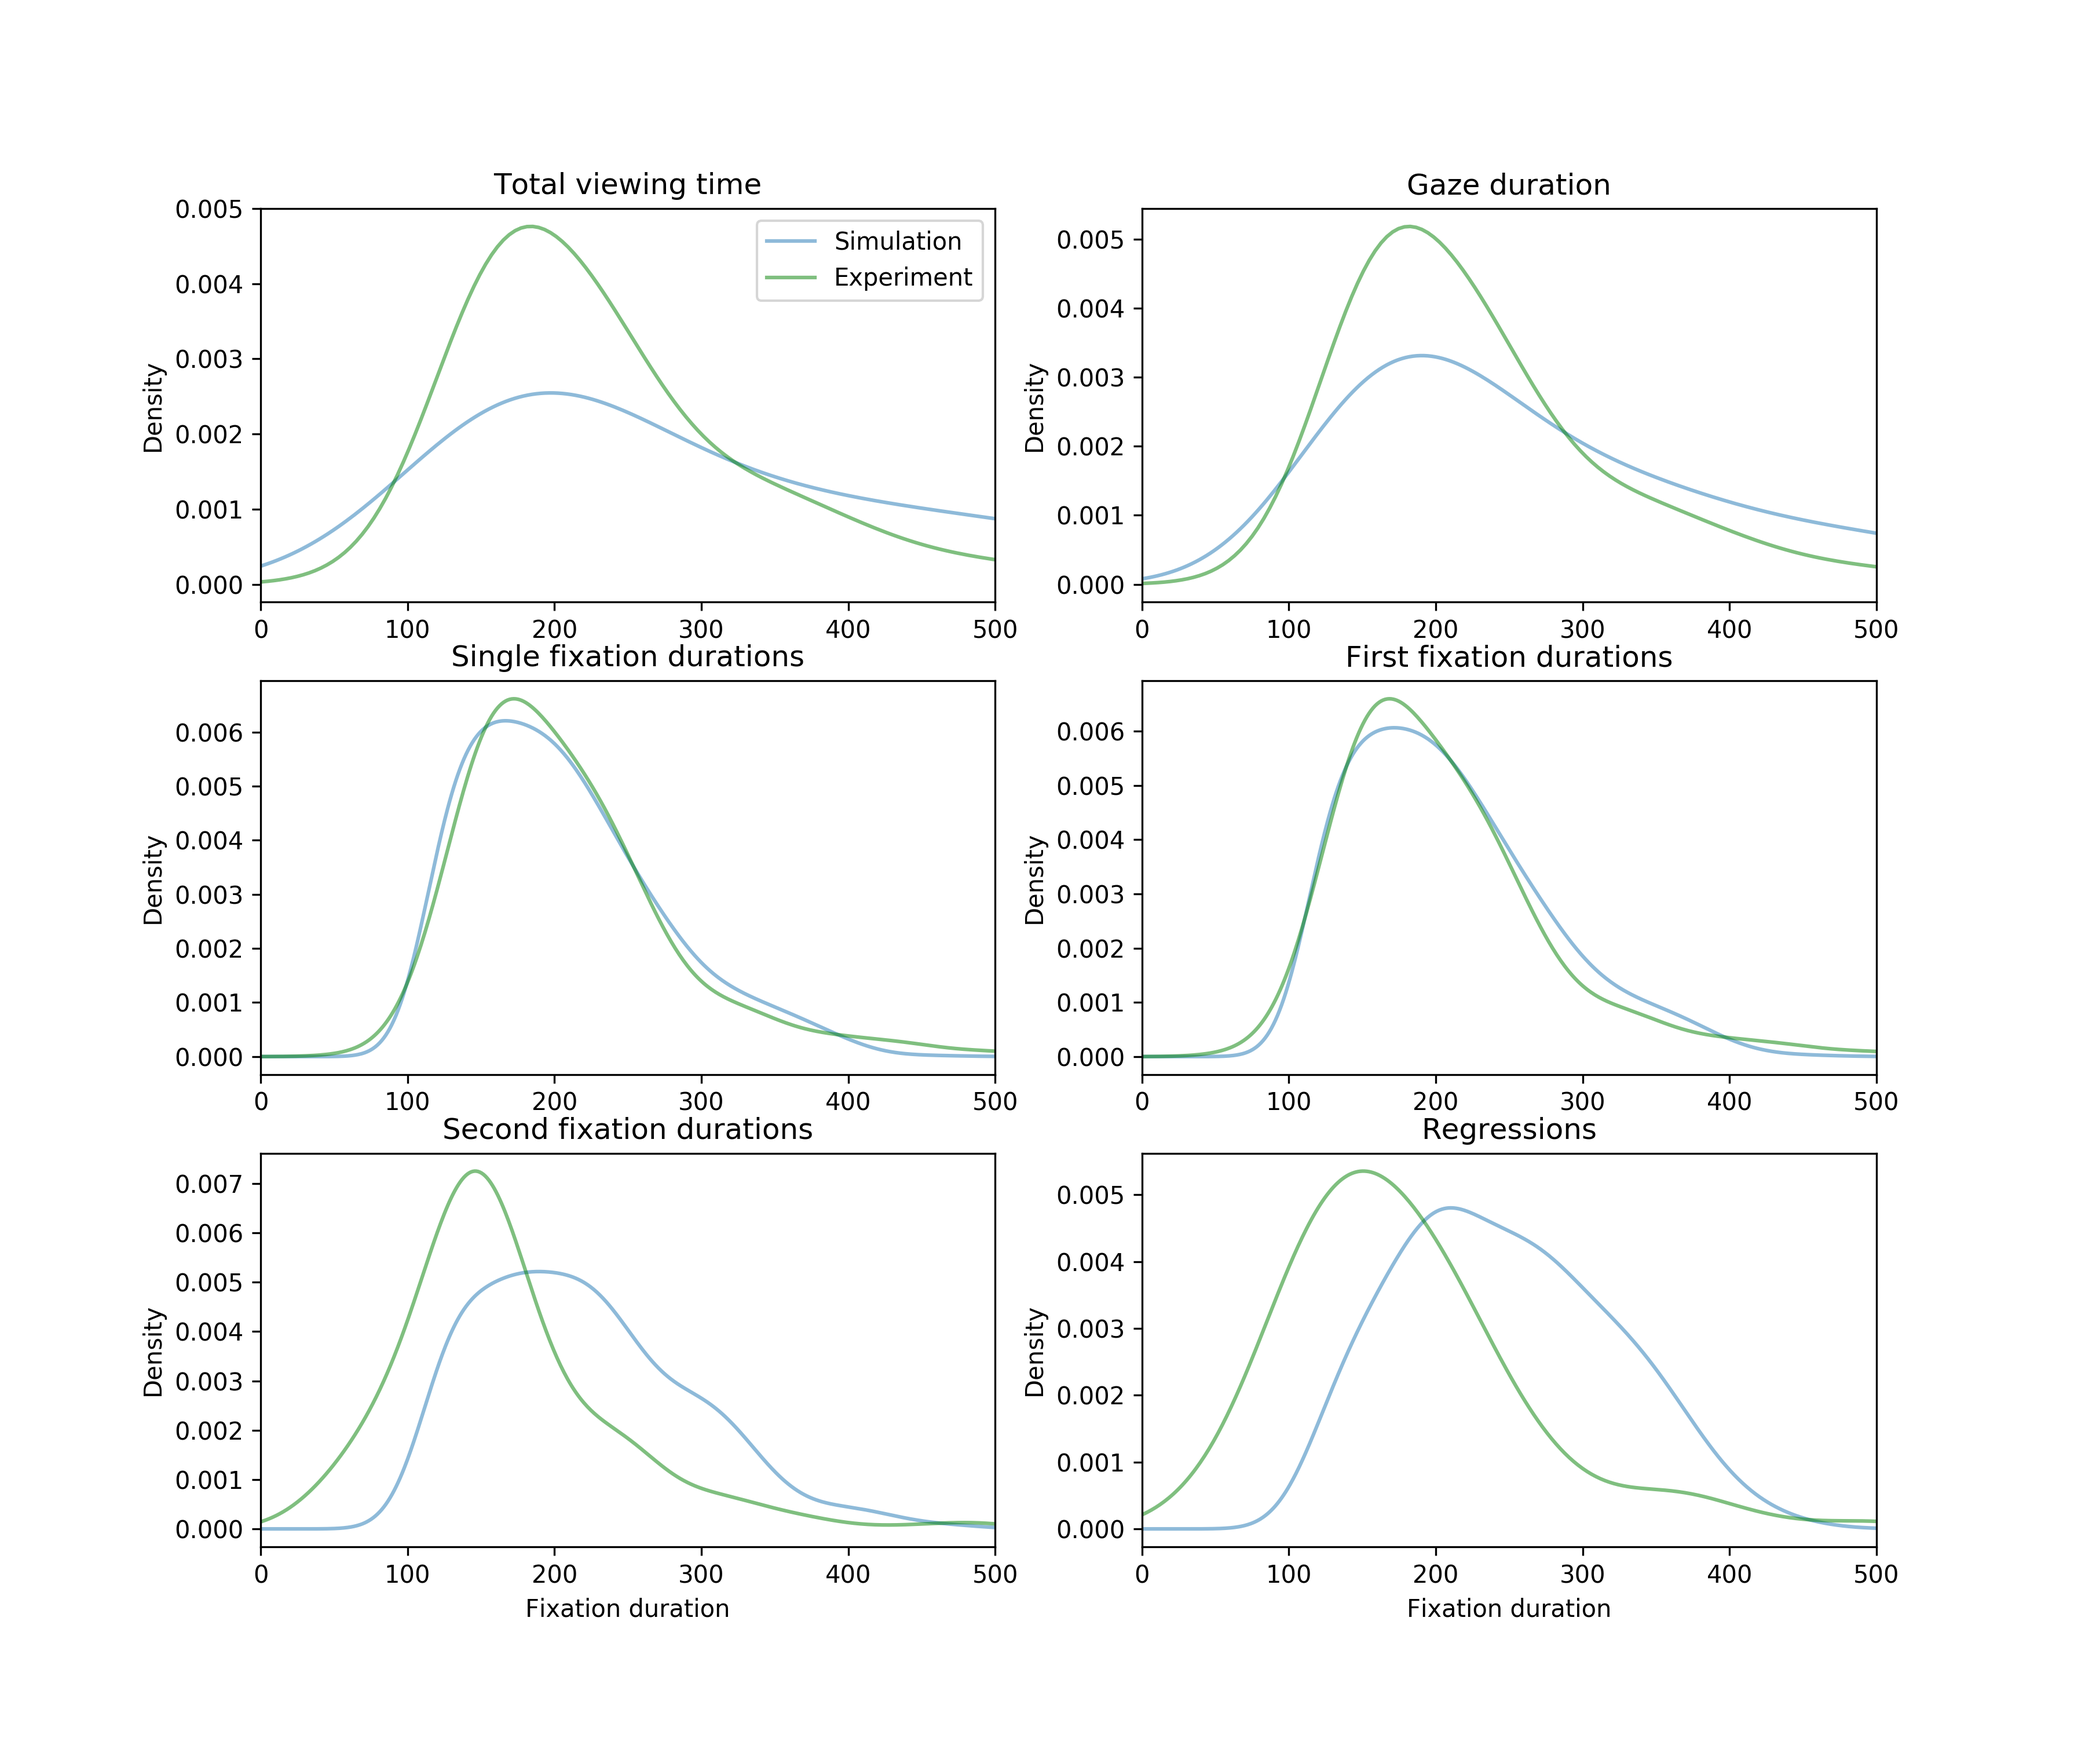
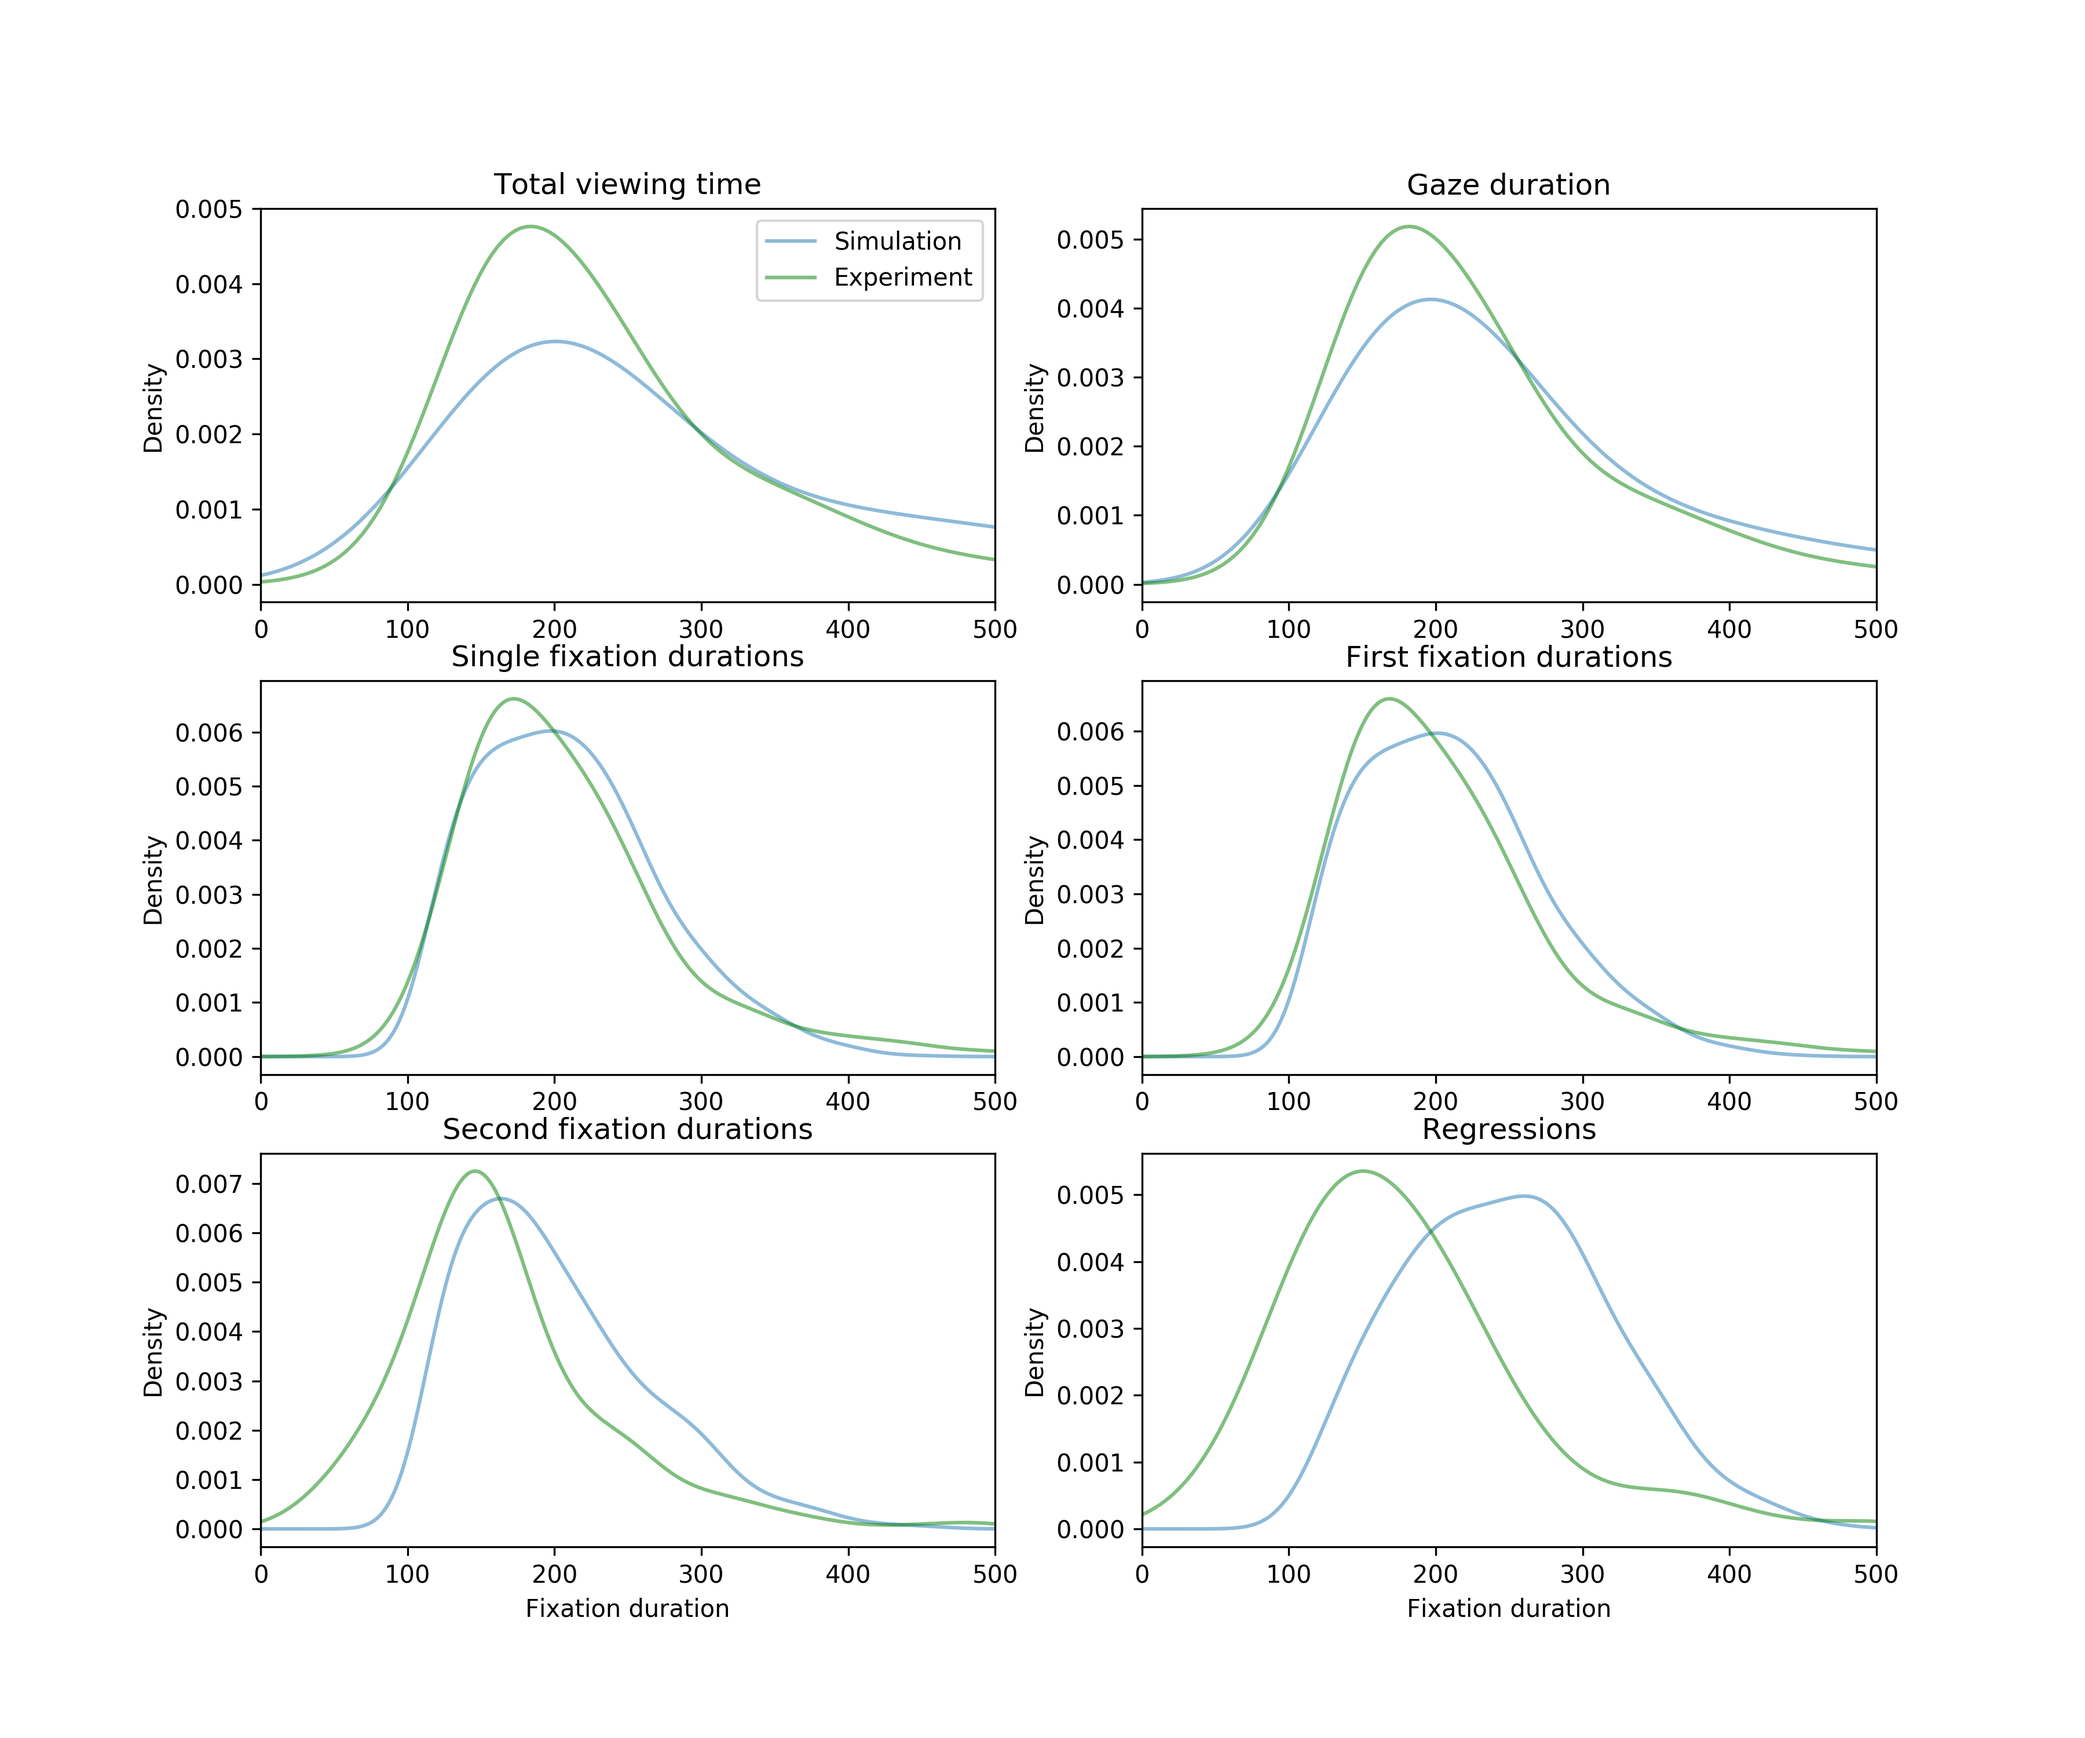
main results

diff --git a/reading_simulation.py b/reading_simulation.py
@@ -63,10 +63,10 @@ def reading_simulation(filename, parameters):
         textsplitbyspace = textfile.split(" ")
     if ".pkl" in filename:
         textsplitbyspace = pickle.load(open(filename))
-#        textsplitbyspace = textsplitbyspace[:1000]
+
     for word in textsplitbyspace:
         if word.strip() != "":
-           # new_word = str(word.strip())  # make sure words are unicode (numpy.unicode_ can cause errors)
+            #new_word = str(word.strip())  # make sure words are unicode (numpy.unicode_ can cause errors)
             new_word = np.unicode_(word.strip()) #For Python2
             individual_words.append(new_word)
             lengtes.append(len(word))

diff --git a/parameters.py b/parameters.py
@@ -47,10 +47,10 @@ print("-------------------")
 
 
 ## Monoweight = 1
-decay = -0.2 #-0.053
-bigram_to_word_excitation = 4.36 # inp. divded by #ngrams, so this param estimates excit per word [diff from paper]
-bigram_to_word_inhibition = -1.1
-word_inhibition = -0.0055 # -0.002
+decay = -0.053 #-0.053
+bigram_to_word_excitation = 2.18 # inp. divded by #ngrams, so this param estimates excit per word [diff from paper]
+bigram_to_word_inhibition = -0.55
+word_inhibition = -0.011 # -0.002
 
 letPerDeg = .3
 min_activity = 0.0
